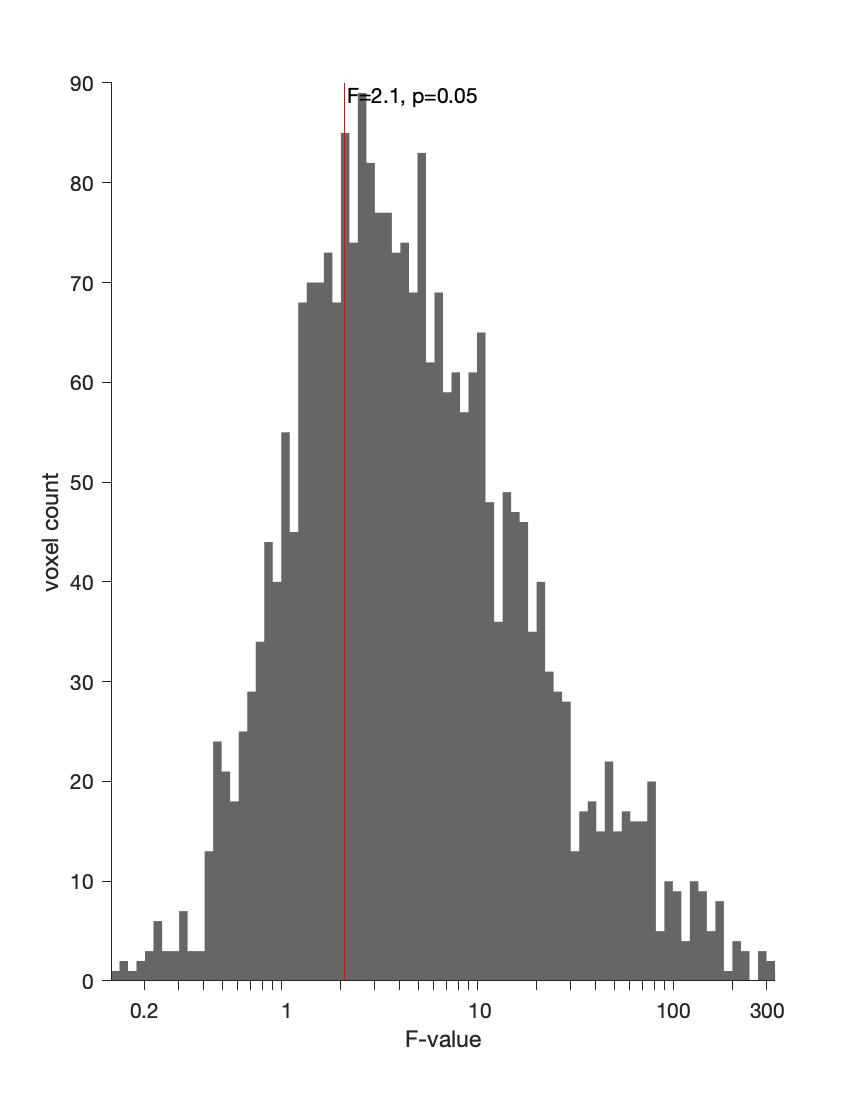
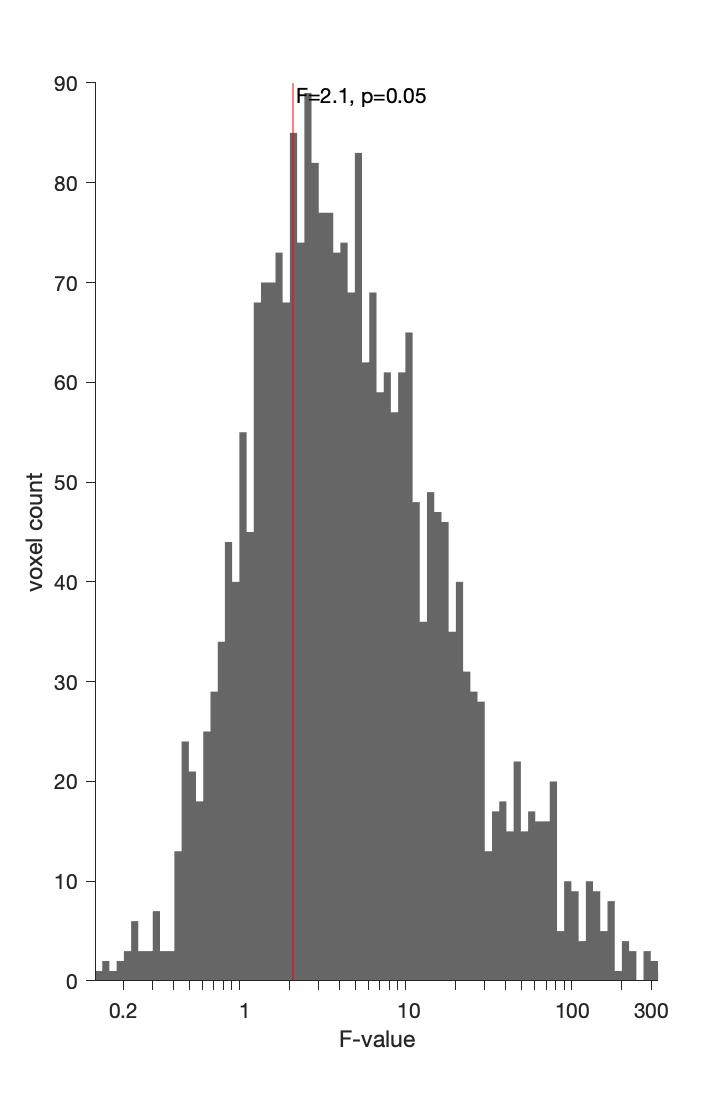
Connect pipe in preprocAndShowMasks.m
Now excludes the bad run from computation of vein map and most discriminant voxels.

diff --git a/neuroimaging/preprocAndShowMasks.m b/neuroimaging/preprocAndShowMasks.m
@@ -1,7 +1,7 @@
 function preprocAndShowMasks(featSel_bSess,figOption,verbose)
 close all
 actuallyRun = 1;
-doWave = 1;
+doWave = 0;
 if ~exist('verbose','var')
     verbose = 1;
 end
@@ -72,11 +72,12 @@ funLevel1 = 'x';
 funLevel2 = 'y';
 funLevel3 = 'z';
 if noMovement
-    sinFitFile = 'v1SinCos_1perRun.mat';
-    hrFitFile = 'v1resp_1perRun_resp.mat';
+    sinFitFile = 'v1SinCos.mat';
+    hrFitFile = 'v1resp_resp.mat';
 else
-    sinFitFile = 'v1SinCos_1perRun_move12.mat';
-    hrFitFile = 'v1resp_1perRun_move12_resp.mat';
+    error('this option was removed')
+    sinFitFile = 'v1SinCos_move12.mat';
+    hrFitFile = 'v1resp_move12_resp.mat';
 end
 subjList = {'02jp' '03sk' '04sp' '05bm' '06sb' '07bj'}';
 
@@ -127,6 +128,13 @@ for subjInd = 1:length(subjList)
     repeatLabel = repeatLabel(b);
     %     [runLabel' sessLabel' condLabel' repeatLabel']
 
+    %% Define exclusion
+    exclusion.subjList = {'02jp' '03sk' '04sp' '05bm' '06sb' '07bj'};
+    exclusion.subj = 2;
+    exclusion.sess = {1};
+    exclusion.run = {4};
+    exclusion.cond = {2};
+    
     %% Brain image
     tmpFilename = dir(fullfile(funPath,funLevel1,subjList{subjInd},'trun101_preprocessed.nii*'));
     if all(size(tmpFilename)==[1 1]); tmpFilename = tmpFilename.name; else; error('X'); end
@@ -179,7 +187,13 @@ for subjInd = 1:length(subjList)
         sess = ['sess' num2str(sessInd)];
         runInd = sessLabel==sessInd;
         data.(sess).data = complex(X(:,:,:,runInd),Y(:,:,:,runInd));
-        data.(sess).meanBOLD = results.OLS.mixed.constant.brain(:,:,:,runInd);
+        data.(sess).meanBOLD = results.OLS.mixed.poly.p0(:,:,:,runInd);
+        switch veinSource
+            case 'fullModelResid'
+                data.(sess).veinMap = results.OLS.mixed.veinFull(:,:,:,runInd);
+            case 'reducedModelResid'
+                data.(sess).veinMap = results.OLS.mixed.veinReduced(:,:,:,runInd);
+        end
         data.(sess).condLabel = permute(condLabel(runInd),[1 3 4 2]);
         data.(sess).runLabel = permute(runLabel(runInd),[1 3 4 2]);
         %         [squeeze(data.(sess).condLabel) squeeze(data.(sess).runLabel)]
@@ -189,10 +203,18 @@ for subjInd = 1:length(subjList)
         cond3 = data.(sess).condLabel==3;
         data.(sess).data = cat(5,data.(sess).data(:,:,:,cond1),data.(sess).data(:,:,:,cond2),data.(sess).data(:,:,:,cond3));
         data.(sess).meanBOLD = cat(5,data.(sess).meanBOLD(:,:,:,cond1),data.(sess).meanBOLD(:,:,:,cond2),data.(sess).meanBOLD(:,:,:,cond3));
+        data.(sess).veinMap = cat(5,data.(sess).veinMap(:,:,:,cond1),data.(sess).veinMap(:,:,:,cond2),data.(sess).veinMap(:,:,:,cond3));
         data.(sess).runLabel = cat(5,data.(sess).runLabel(:,:,:,cond1),data.(sess).runLabel(:,:,:,cond2),data.(sess).runLabel(:,:,:,cond3));
         data.(sess).info = 'x X y X z X run X cond[ori1,ori2,plaid]';
-        
         data.(sess) = rmfield(data.(sess),'condLabel');
+        
+        % redefine exclusion
+        sz = size(data.(sess).data); sz(1:3) = 1;
+        data.(sess).excl = false(sz);
+        if length(exclusion.subj)>1; error('Need to code for multiple exclusions'); end
+        if strcmp(exclusion.subjList{exclusion.subj},subjList{subjInd}) && exclusion.sess{1}==sessInd
+            data.(sess).excl(:,:,:,exclusion.run{1},:) = true;
+        end
     end
     clear X Y
     
@@ -204,23 +226,8 @@ for subjInd = 1:length(subjList)
     %     imagesc(abs(data.(sess).data(:,:,10,1,1)))
     
     %% Stats for later between-session feature selection
-    exclusion.subjList = {'02jp' '03sk' '04sp' '05bm' '06sb' '07bj'};
-    exclusion.subj = 2;
-    exclusion.sess = {1};
-    exclusion.run = {4};
-    exclusion.cond = {2};
     for sessInd = 1:2
         sess = ['sess' num2str(sessInd)];
-        % First deal with exclusion
-        if length(exclusion.subj)>1; error('Need to code for multiple exclusions'); end
-        if strcmp(exclusion.subjList{exclusion.subj},subjList{subjInd}) && exclusion.sess{1}==sessInd
-
-            runInd = repeatLabel==exclusion.run{1} & sessLabel==exclusion.sess{1};
-            runInd = ~runInd;
-        else
-            runInd = true(size(runLabel));
-        end
-        
         
         % Activated voxels
         if ~featSel_bSess.activation.doIt
@@ -274,12 +281,9 @@ for subjInd = 1:length(subjList)
             error('code that')
         else
             % get vein score
-            switch veinSource
-                case 'fullModelResid'
-                    featSel.(sess).vein_score(maskFitArea) = mean(results.OLS.mixed.veinFull(:,:,:,runInd & sessLabel==sessInd),4);
-                case 'reducedModelResid'
-                    featSel.(sess).vein_score(maskFitArea) = mean(results.OLS.mixed.veinReduced(:,:,:,runInd & sessLabel==sessInd),4);
-            end
+            tmp = data.(sess).veinMap(:,:,:,~any(data.(sess).excl,5),:);
+            featSel.(sess).vein_score(maskFitArea) = mean(tmp(:,:,:,:),4);
+            
             % get vein threshold as the percentile of ACTIVE (see Activation map above) voxels in ROI
             maskTmp = featSel.(sess).anyCondActivation_mask & maskROI;
             %             % get vein threshold as percentile of voxels in ROI
@@ -305,9 +309,9 @@ for subjInd = 1:length(subjList)
         featSel.(sess).discrim_mask = true(size(brain));
         if ~featSel_bSess.vein.doIt
             error('code that')
-        else
+        else            
             % get discriminant voxels (in vector format within ROI)
-            x = data.(sess).data;
+            x = data.(sess).data(:,:,:,~any(data.(sess).excl,5),:);
             ind = false(size(x,[1 2 3]));
             ind(:) = maskROI(maskFitArea);
             x = permute(x,[4 5 1 2 3]);
@@ -363,7 +367,7 @@ for subjInd = 1:length(subjList)
         filename = fullfile(pwd,mfilename);
         if ~exist(filename,'dir'); mkdir(filename); end
         filename = fullfile(filename,'cmap.mat');
-        if exist(filename,'file')
+        if exist(filename,'file') && ~actuallyRun
             load(filename,'cMap_F','cMap_vein');
         else
             try
